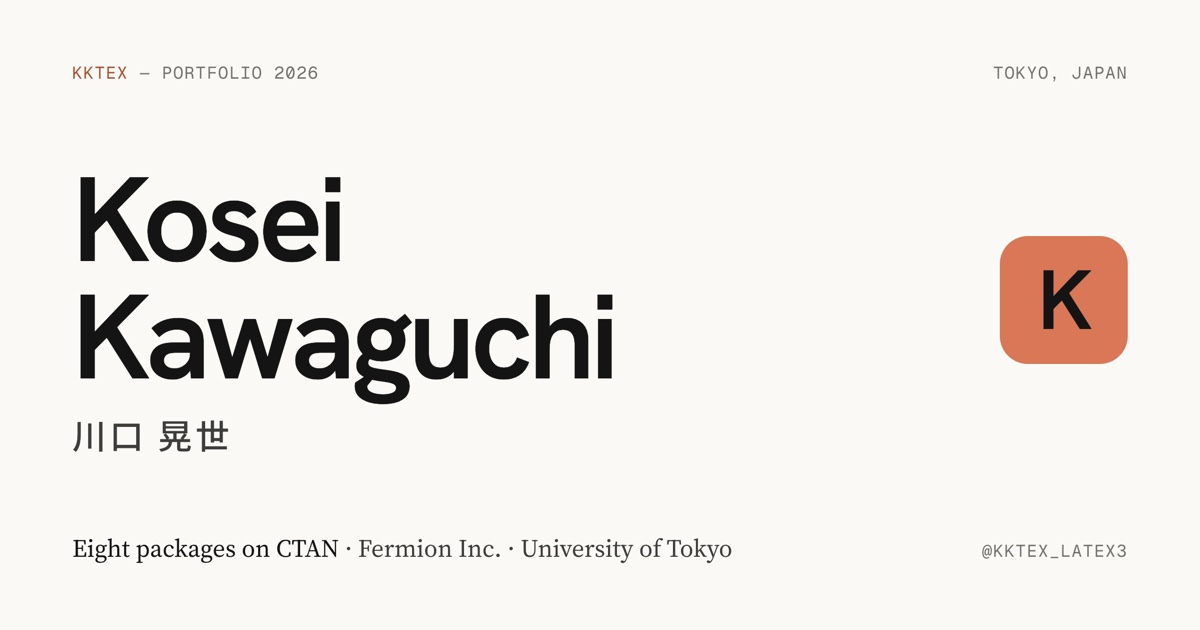
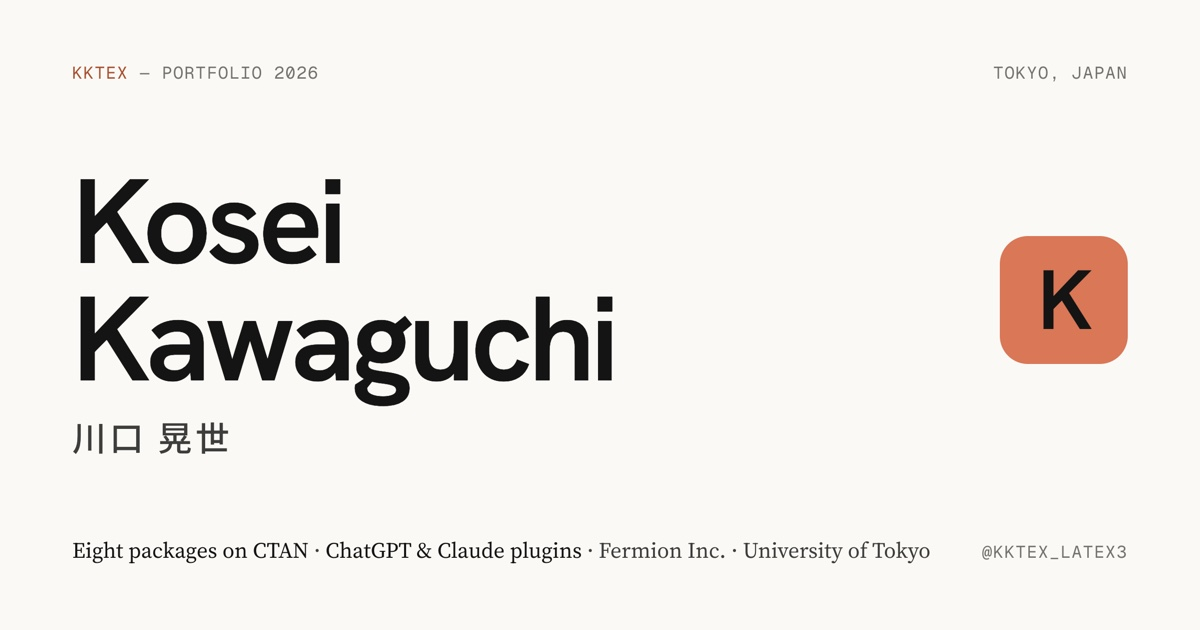
Add Scoring64 and put the ChatGPT and Claude plugins beside CTAN
Scoring64 joins the products as a third card in a row of three, linking
to its download site, and the Fermion intro now covers education. The
hero names the plugins next to the eight CTAN packages, in the page and
in every description of it (meta, JSON-LD, the OG card), and the stats
become a 2x2 grid so the plugin count fits beside them.

diff --git a/public/index.html b/public/index.html
@@ -4,7 +4,7 @@
 <meta charset="utf-8">
 <meta name="viewport" content="width=device-width, initial-scale=1">
 <title>川口 晃世 / KKTeX — Portfolio</title>
-<meta name="description" content="TeXで組版の道具をつくっています。CTAN公式パッケージ8本の著作者、株式会社Fermion共同創業者、東京大学理科一類1年。">
+<meta name="description" content="TeXで組版の道具をつくっています。CTAN公式パッケージ8本とChatGPT・Claudeのプラグインの著作者。株式会社Fermion共同創業者、東京大学理科一類1年。">
 <meta name="author" content="川口 晃世 (KKTeX)">
 <meta name="theme-color" content="#FAF9F5">
 <link rel="canonical" href="https://kktexportfolio.klassikore.com/">
@@ -13,11 +13,11 @@
 <meta property="og:site_name" content="KKTeX">
 <meta property="og:url" content="https://kktexportfolio.klassikore.com/">
 <meta property="og:title" content="川口 晃世 / KKTeX — Portfolio">
-<meta property="og:description" content="TeXで組版の道具をつくっています。CTAN公式パッケージ8本の著作者、株式会社Fermion共同創業者、東京大学理科一類1年。">
+<meta property="og:description" content="TeXで組版の道具をつくっています。CTAN公式パッケージ8本とChatGPT・Claudeのプラグインの著作者。株式会社Fermion共同創業者、東京大学理科一類1年。">
 <meta property="og:image" content="https://kktexportfolio.klassikore.com/uploads/og.jpg">
 <meta property="og:image:width" content="1200">
 <meta property="og:image:height" content="630">
-<meta property="og:image:alt" content="Kosei Kawaguchi (KKTeX) — author of eight packages on CTAN, co-founder of Fermion Inc., first-year student at the University of Tokyo.">
+<meta property="og:image:alt" content="Kosei Kawaguchi (KKTeX) — author of eight packages on CTAN and of plugins for ChatGPT and Claude; co-founder of Fermion Inc., first-year student at the University of Tokyo.">
 <meta property="og:locale" content="ja_JP">
 <meta property="og:locale:alternate" content="en_US">
 
@@ -25,7 +25,7 @@
 <meta name="twitter:site" content="@KKTeX_LaTeX3">
 <meta name="twitter:creator" content="@KKTeX_LaTeX3">
 <meta name="twitter:title" content="川口 晃世 / KKTeX — Portfolio">
-<meta name="twitter:description" content="TeXで組版の道具をつくっています。CTAN公式パッケージ8本の著作者、株式会社Fermion共同創業者、東京大学理科一類1年。">
+<meta name="twitter:description" content="TeXで組版の道具をつくっています。CTAN公式パッケージ8本とChatGPT・Claudeのプラグインの著作者。株式会社Fermion共同創業者、東京大学理科一類1年。">
 <meta name="twitter:image" content="https://kktexportfolio.klassikore.com/uploads/og.jpg">
 
 <!-- Google Search Console ownership. Keep this: removing it un-verifies the property. -->
@@ -52,8 +52,8 @@
       "givenName": "晃世",
       "url": "https://kktexportfolio.klassikore.com/",
       "image": "https://kktexportfolio.klassikore.com/uploads/og.jpg",
-      "description": "TeXで組版の道具をつくっています。CTAN公式パッケージ8本の著作者、株式会社Fermion共同創業者、東京大学理科一類1年。",
-      "disambiguatingDescription": "Author of eight official packages on CTAN, co-founder of Fermion Inc., first-year student at the University of Tokyo. Currently writing a book on expl3.",
+      "description": "TeXで組版の道具をつくっています。CTAN公式パッケージ8本とChatGPT・Claudeのプラグインの著作者。株式会社Fermion共同創業者、東京大学理科一類1年。",
+      "disambiguatingDescription": "Author of eight official packages on CTAN and of plugins for ChatGPT and Claude; co-founder of Fermion Inc., first-year student at the University of Tokyo. Currently writing a book on expl3.",
       "knowsAbout": ["TeX", "LaTeX", "expl3", "組版", "typesetting"],
       "affiliation": {
         "@type": "CollegeOrUniversity",
@@ -87,7 +87,7 @@
       "@id": "https://kktexportfolio.klassikore.com/#website",
       "url": "https://kktexportfolio.klassikore.com/",
       "name": "川口 晃世 / KKTeX — Portfolio",
-      "description": "TeXで組版の道具をつくっています。CTAN公式パッケージ8本の著作者、株式会社Fermion共同創業者、東京大学理科一類1年。",
+      "description": "TeXで組版の道具をつくっています。CTAN公式パッケージ8本とChatGPT・Claudeのプラグインの著作者。株式会社Fermion共同創業者、東京大学理科一類1年。",
       "inLanguage": ["ja", "en"],
       "author": {"@id": "https://kktexportfolio.klassikore.com/#person"},
       "publisher": {"@id": "https://kktexportfolio.klassikore.com/#person"},
@@ -132,8 +132,8 @@
       <p class="hero-name" data-reveal="1">川口 晃世<span>/ KKTeX</span></p>
     </div>
     <div>
-      <p class="lead" data-l="ja" data-reveal="1">TeXで組版の道具をつくっています。CTAN公式パッケージ8本の著作者、株式会社Fermion共同創業者、東京大学理科一類1年。</p>
-      <p class="lead" data-l="en" data-reveal="1">I build typesetting tools in TeX. Author of eight packages on CTAN, co-founder of Fermion Inc., first-year student at the University of Tokyo.</p>
+      <p class="lead" data-l="ja" data-reveal="1">TeXで組版の道具をつくっています。CTAN公式パッケージ8本とChatGPT・Claudeのプラグインの著作者。株式会社Fermion共同創業者、東京大学理科一類1年。</p>
+      <p class="lead" data-l="en" data-reveal="1">I build typesetting tools in TeX. Author of eight packages on CTAN and of plugins for ChatGPT and Claude; co-founder of Fermion Inc., first-year student at the University of Tokyo.</p>
       <div class="hero-links" data-reveal="1">
         <a class="btn btn-line btn-sm" href="https://ctan.org/author/kktex">CTAN</a>
         <a class="btn btn-line btn-sm" href="https://github.com/KKTeX">GitHub</a>
@@ -164,7 +164,8 @@
       </div>
       <div class="stats" data-reveal="1">
         <div class="stat"><div class="stat-n accent">08</div><div class="stat-l" data-l="ja">CTAN公式パッケージ</div><div class="stat-l" data-l="en">packages on CTAN</div></div>
-        <div class="stat"><div class="stat-n">3</div><div class="stat-l" data-l="ja">Fermionのプロダクト</div><div class="stat-l" data-l="en">products at Fermion</div></div>
+        <div class="stat"><div class="stat-n accent">2</div><div class="stat-l" data-l="ja">ChatGPT・Claudeの<wbr>プラグイン</div><div class="stat-l" data-l="en">plugins for ChatGPT &amp; Claude</div></div>
+        <div class="stat"><div class="stat-n">4</div><div class="stat-l" data-l="ja">Fermionのプロダクト</div><div class="stat-l" data-l="en">products at Fermion</div></div>
         <div class="stat"><div class="stat-n">11/21</div><div class="stat-l" data-l="ja">TeXConf2026 登壇</div><div class="stat-l" data-l="en">speaking at TeXConf2026</div></div>
       </div>
     </div>
@@ -296,8 +297,8 @@
     <div class="sec-intro">
       <h2 class="h2" data-l="ja" data-mask="view"><span class="m">株式会社Fermion</span></h2>
       <h2 class="h2" data-l="en" data-mask="view"><span class="m">Fermion Inc.</span></h2>
-      <p data-l="ja" data-reveal="1">2026年、幸川卓実氏と設立。TeXと数式まわりのプロダクトを開発している。</p>
-      <p data-l="en" data-reveal="1">Founded in 2026 with Takumi Yukikawa, building products around TeX and mathematical notation.</p>
+      <p data-l="ja" data-reveal="1">2026年、幸川卓実氏と設立。TeXと数式、教育まわりのプロダクトを開発している。</p>
+      <p data-l="en" data-reveal="1">Founded in 2026 with Takumi Yukikawa, building products around TeX, mathematical notation and education.</p>
     </div>
 
     <article class="feature" data-reveal="1">
@@ -333,6 +334,12 @@
         <div class="prod-head"><div class="prod-name">Evolton</div><div class="prod-url">evolton.jp ↗</div></div>
         <p data-l="ja">問題の写真から解答PDFを作成。13大学・4,313問の入試数学 過去問データベースとオーダーメイド問題集。</p>
         <p data-l="en">Answer PDFs built from a photo of a problem, plus a database of 4,313 entrance-exam problems from 13 universities.</p>
+      </a>
+      <a class="prod" data-reveal="1" href="https://fermion-company.github.io/scoring64-download/">
+        <div class="prod-img"><img src="uploads/scoring64-card.jpg" alt="Scoring64の採点画面。スキャンした答案の記述を見ながら、点数のボタンで採点している" width="1200" height="800" loading="lazy"></div>
+        <div class="prod-head"><div class="prod-name">Scoring64</div><div class="prod-url">fermion-company.github.io ↗</div></div>
+        <p data-l="ja">塾の紙のテストの電子採点ソフト。答案をスキャンして取り込み、記号問題は自動で、記述問題は画面で採点する。Windows対応。</p>
+        <p data-l="en">Digital grading for cram schools' paper tests: scan the answer sheets in, and multiple-choice is marked automatically while written answers are marked on screen. For Windows.</p>
       </a>
     </div>
   </div>

diff --git a/public/style.css b/public/style.css
@@ -144,12 +144,14 @@ header[id],section[id]{scroll-margin-top:72px}
 .profile img{width:64px;height:64px;flex:none;border-radius:14px;object-fit:cover}
 .who{font:600 18px/1.2 var(--sans)}
 .handle{margin-top:6px;font:400 13px/1 var(--mono);color:var(--muted)}
-.stats{display:flex;flex-direction:column;justify-content:center;padding:4px 24px;border-radius:20px;background:var(--paper)}
-.stat{display:flex;align-items:baseline;justify-content:space-between;gap:16px;padding:18px 0}
-.stat + .stat{border-top:1px solid var(--line)}
+/* the stats sit in a 2x2 grid with hairlines between the cells */
+.stats{display:grid;grid-template-columns:repeat(2,minmax(0,1fr));border-radius:20px;background:var(--paper)}
+.stat{display:flex;flex-direction:column;justify-content:space-between;gap:12px;padding:20px 22px}
+.stat:nth-child(even){border-left:1px solid var(--line)}
+.stat:nth-child(n+3){border-top:1px solid var(--line)}
 .stat-n{font:600 clamp(34px,3.6vw,46px)/1 var(--sans);letter-spacing:-.035em}
 .stat-n.accent{color:var(--clay)}
-.stat-l{text-align:right;font:400 16px/1.4 var(--serif);color:var(--ink-2)}
+.stat-l{font:400 16px/1.4 var(--serif);color:var(--ink-2)}
 .stat-l[data-l="ja"]{font:400 14px/1.6 var(--ja)}
 
 /* ── sections ─────────────────────────────────────────────────────────────── */
@@ -215,7 +217,7 @@ header[id],section[id]{scroll-margin-top:72px}
 .facts li [data-l="ja"]{font-family:var(--ja);font-size:13.5px}
 .feature-links{margin-top:auto;padding-top:6px;display:flex;flex-wrap:wrap;gap:8px}
 
-.prod-grid{margin-top:16px;display:grid;grid-template-columns:repeat(2,minmax(0,1fr));gap:16px}
+.prod-grid{margin-top:16px;display:grid;grid-template-columns:repeat(3,minmax(0,1fr));gap:16px}
 .prod{display:flex;flex-direction:column;gap:18px;padding-bottom:8px}
 .prod-img{overflow:hidden;border-radius:16px;background:var(--paper)}
 .prod-img img{width:100%;aspect-ratio:3/2;object-fit:cover;transition:transform 900ms var(--ease-expo)}
@@ -298,5 +300,5 @@ header[id],section[id]{scroll-margin-top:72px}
   .tl-row{grid-template-columns:minmax(0,1fr);gap:8px}
   .pkg-grid{grid-template-columns:minmax(0,1fr)}
   .prod-grid{grid-template-columns:minmax(0,1fr)}
-  .stat-l{max-width:12em}
+  .stat{padding:18px 16px}
 }

diff --git a/build/og.html b/build/og.html
@@ -13,7 +13,7 @@ body{width:1200px;height:630px;background:#FAF9F5;color:#141413;overflow:hidden;
 .top b{font-weight:400;color:#A94F2E}
 h1{font:600 120px/.98 'Hanken Grotesk',sans-serif;letter-spacing:-.04em}
 .ja{margin-top:22px;font:500 34px/1 'Noto Sans JP',sans-serif;letter-spacing:.1em;color:#3D3D3A}
-.tag{font:400 25px/1.4 'Source Serif 4',serif;color:#3D3D3A;letter-spacing:0;text-transform:none}
+.tag{font:400 22px/1.4 'Source Serif 4',serif;color:#3D3D3A;letter-spacing:0;text-transform:none;white-space:nowrap}
 .tag b{font-weight:400;color:#141413}
 .dot{position:absolute;right:72px;top:236px;width:128px;height:128px;border-radius:28px;background:#D97757}
 .dot::after{content:"K";position:absolute;inset:0;display:grid;place-items:center;
@@ -27,7 +27,7 @@ h1{font:600 120px/.98 'Hanken Grotesk',sans-serif;letter-spacing:-.04em}
   <div class="ja">川口 晃世</div>
 </div>
 <div class="bot">
-  <div class="tag"><b>Eight packages on CTAN</b> · Fermion Inc. · University of Tokyo</div>
+  <div class="tag"><b>Eight packages on CTAN</b> · <b>ChatGPT &amp; Claude plugins</b> · Fermion Inc. · University of Tokyo</div>
   <div>@KKTeX_LaTeX3</div>
 </div>
 </body></html>

diff --git a/build/cards/scoring64.html b/build/cards/scoring64.html
@@ -1,0 +1,11 @@
+<!DOCTYPE html><html><head><meta charset="utf-8">
+<link rel="stylesheet" href="card.css">
+<style>
+body{background:#A8D5CF}
+/* the grading screen runs off the right and bottom edges, as on tex64.html */
+.shot{left:104px;top:104px;width:1240px;border-radius:14px}
+.shot img{width:100%}
+</style></head>
+<body>
+<div class="shot"><img src="../assets/cards/scoring64-grading.png" alt=""></div>
+</body></html>

diff --git a/build/README.md b/build/README.md
@@ -12,7 +12,7 @@ that date if the old design is ever wanted back.
 
 ## Product card images
 
-`cards/*.html` compose the three images on the Products section. Each is a flat
+`cards/*.html` compose the four images on the Products section. Each is a flat
 plate in one of the page's palette colours with the product's own current UI or
 output laid on it. The only drawn element is the request bubble on the MCP
 card.
@@ -21,6 +21,7 @@ card.
 |---|---|---|---|
 | `tex64.html` | oat `#E3DACC` | `cards/tex64-app.png` | `https://tex64.com/marketing/tex64-spectral-app-clean.png` |
 | `evolton.html` | cactus `#BCD1CA` | `cards/evolton-answer.png`, `cards/evolton-bank.png` | `https://evolton.jp/home-todai-exam-prep-template.png`, `/home-problem-bank.png` |
+| `scoring64.html` | teal `#A8D5CF` | `cards/scoring64-grading.png` | `assets/img/s10-grading.webp` in `Fermion-company/scoring64-download` (2026-10-01) |
 | `mcp.html` | clay `#D97757` | `mcp/sample-{cover,body,exercise}.png` | `https://tex64.com/mcp/sample-{cover,body,exercise}.png` |
 
 All fetched 2026-09-27.
@@ -42,7 +43,7 @@ sips -s format jpeg -s formatOptions 86 -Z 1200 card.png \
   --out public/uploads/tex64-card.jpg
 ```
 
-Output names: `tex64-card.jpg`, `evolton-card.jpg`, `tex64-mcp-card.jpg`. Render at 2x and let `sips -Z 1200` downsample; at 1x the
+Output names: `tex64-card.jpg`, `evolton-card.jpg`, `scoring64-card.jpg`, `tex64-mcp-card.jpg`. Render at 2x and let `sips -Z 1200` downsample; at 1x the
 text inside the screenshots goes to mush. `--allow-file-access-from-files` is
 what lets the page load the images beside it.
 
@@ -63,10 +64,15 @@ sips -s format jpeg -s formatOptions 88 -Z 1200 og.png --out public/uploads/og.j
   heading, About, the 2025–26 timeline row, `og.html`, and the `<meta>`
   descriptions and JSON-LD in the `<head>`. Check against
   `ctan.org/author/kktex`.
-- **Product count** (three): the `3` stat in the hero counts the Fermion
-  products the page shows — TeX64, TeX64 MCP, Evolton. MathHover was taken off
+- **Product count** (four): the `4` stat in the hero counts the Fermion
+  products the page shows — TeX64, TeX64 MCP, Evolton, Scoring64 (added
+  2026-10-01). MathHover was taken off
   the page on 2026-09-27 at the author's request; keep the stat matched to the
   cards rather than to Fermion's full lineup.
+- **Plugin count** (two): the `2` stat in the hero counts the TeX64 plugin
+  for ChatGPT and the one for Claude. The hero paragraph, the `<meta>`
+  descriptions, the JSON-LD and `og.html` name them beside the CTAN packages
+  (since 2026-10-01); keep all of them matched.
 - **TeX64 MCP in ChatGPT**: published in the ChatGPT plugin directory
   (Education & Research) at
   `https://chatgpt.com/plugins/plugin_asdk_app_6a8abcc3f22c819196d21cf6e44e3a3b`.
